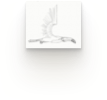
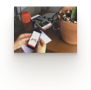
a hover

diff --git a/magmag.css b/magmag.css
@@ -9,7 +9,6 @@ body{
   padding: 0;
 /****************************** GRID */
   display: grid;
-  /* PRECISO PENSAR NA RESPOSIVIDADE DO INTRO VERMELHO */
   grid-template-rows: 390px 1fr auto;
   grid-template-columns: 1fr 1fr;
   grid-template-areas:
@@ -115,6 +114,8 @@ marquee{
   font-weight: bold;
   line-height: 1.6em;
   margin-top: 6em;
+  margin-bottom: 4.4em;
+  width: 24ch;
 }
 
 .editorial p
@@ -137,20 +138,30 @@ marquee{
 
 .editorial li
 {
-  line-height: 4em;
-}
-
-.editorial a
-{
   display: flex;
   flex-direction: row;
+  height: 80px;
+  width: 100%;
+  
 }
-
-.editorial a span
+.editorial a
 {
-  width: 140px;
+  width: 34ch;
+  height: 40px;
+  margin: auto;
 }
 
+.editorial a:hover
+{
+  color: #000;
+  transform: scale(2,2);
+}
+
+
+.editorial img
+{
+  transform: translate(-2em,-0.5em);
+}
 
 footer
 {

diff --git a/index.html b/index.html
@@ -56,10 +56,10 @@
 
 	<h2>Galeria de Imagens desta edição:</h2>
 	<ul>
-		<li><a href=""><span>Rival App</span> <img src="galeria-1.png" /></a></li>
-		<li><a href=""><span>Carta Inc</span> <img src="galeria-2.png" /></a></li>
-		<li><a href=""><span>Tucano Bold</span><img src="galeria-3.png" /></a></li>
-		<li><a href=""><span>MagMag</span><img src="galeria-4.png" /></a></li>
+		<li><a href="">Rival App</a><img src="galeria-1.png" /></li>
+		<li><a href="">Carta Inc</a><img src="galeria-2.png" /></li>
+		<li><a href="">Tucano Bold</a><img src="galeria-3.png" /></li>
+		<li><a href="">MagMag</a><img src="galeria-4.png" /></li>
 	</ul>
 </section>
 
